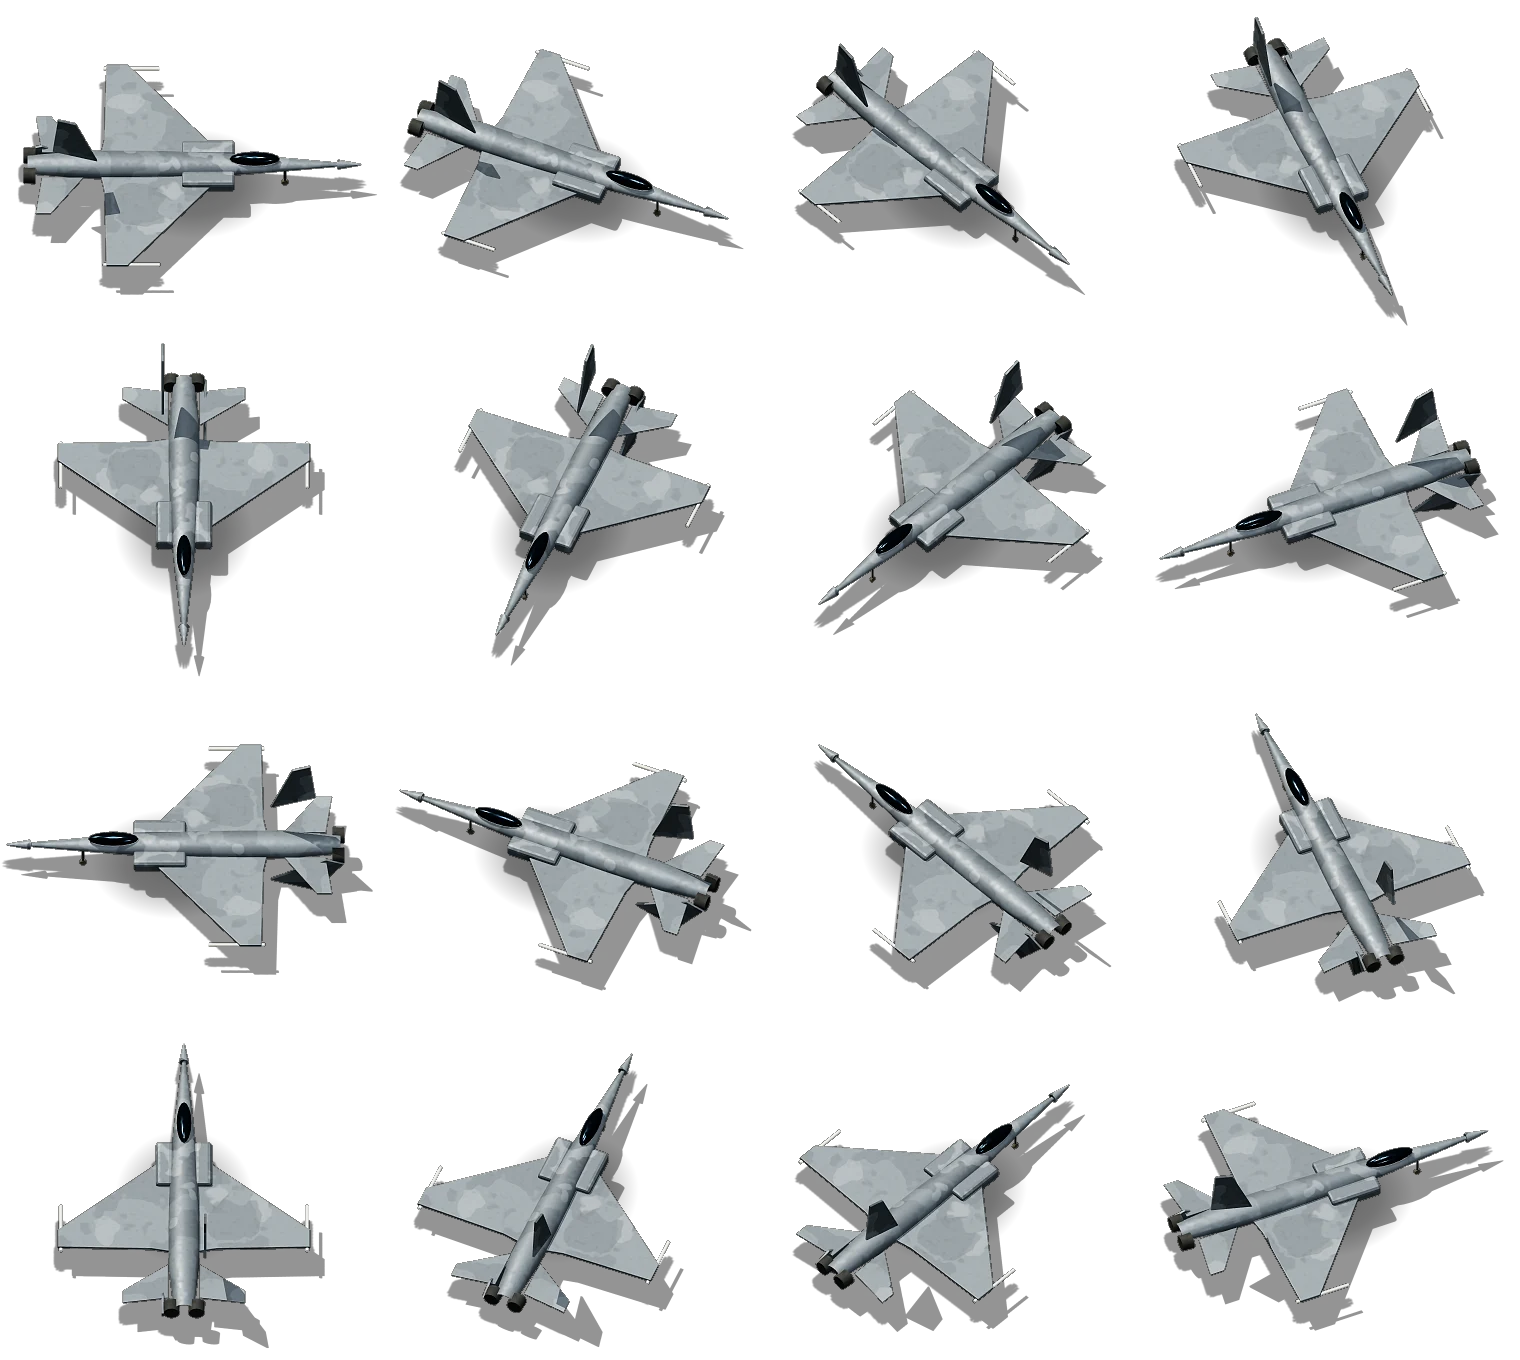
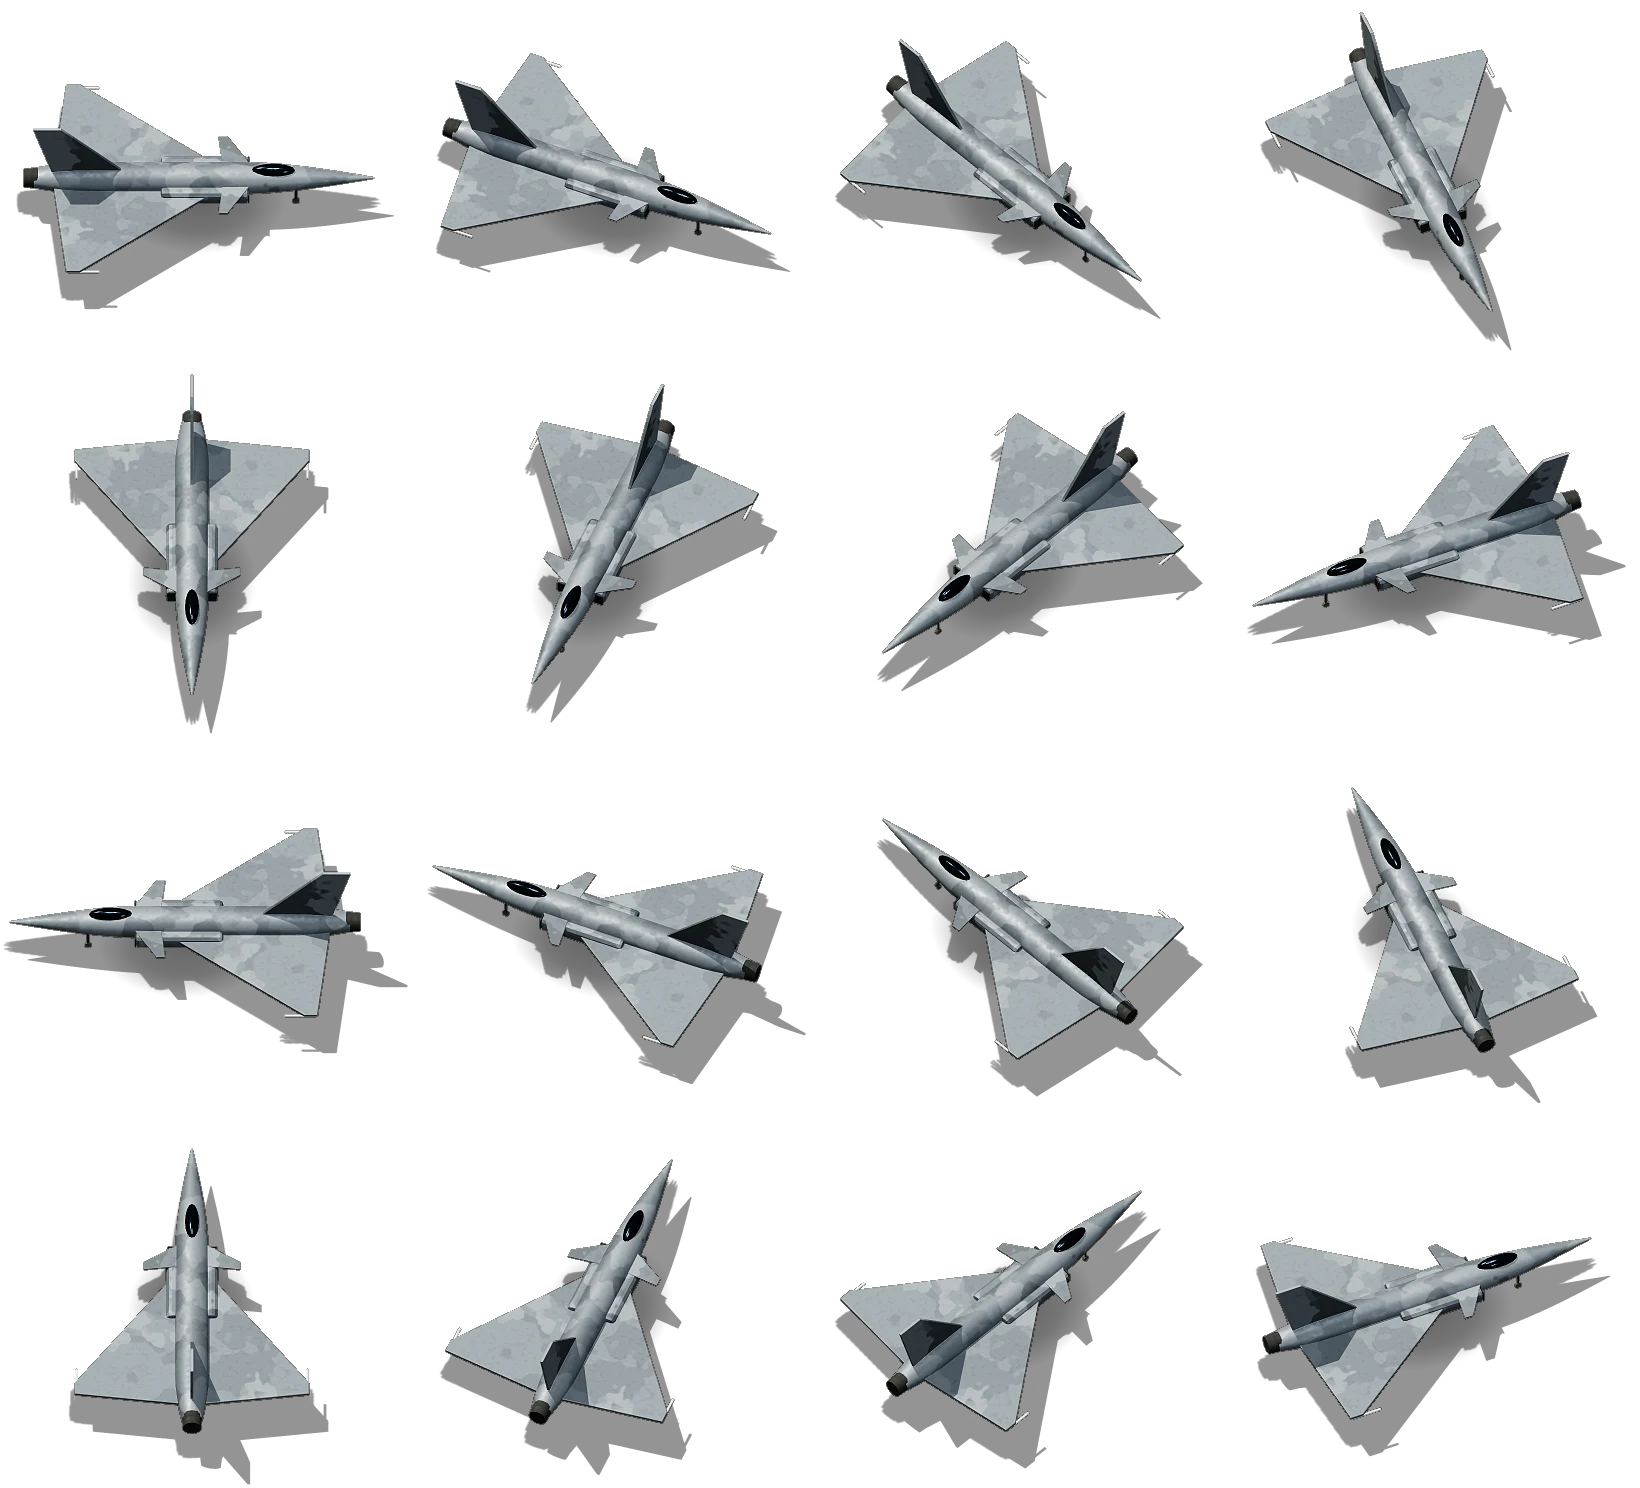
Aircraft 3D map models baked: m-jet, m-int (new shapes), m-asf, m-bomb, m-stealth, m-mpa, m-awacs, m-sdrone, m-swarm and their MAPMETA
Claude-Session: https://claude.ai/code/session_01KVGBc2Umi6eiR6tSvLXXtJ

diff --git a/units3d.js b/units3d.js
@@ -15,7 +15,7 @@
   const cache = {};
   let buildFn = null, mapFn = null;
   // the baked map atlases (assets/units/m-<type>.webp): their crop, ground origin and per-direction model boxes, written by tools/bake-assets.js map
-  const MAPMETA = {"hmv":{"w":334,"h":344,"ox":154,"oy":216.05,"ppm":52.2052,"air":false,"sea":false,"bb":[[15,71,295,261],[12,45,298,281],[23,28,287,293],[53,26,257,299],[91,10,217,295],[52,9,255,299],[21,8,285,293],[10,25,296,281],[13,50,293,261],[10,80,295,281],[21,80,285,294],[52,72,256,302],[91,80,217,295],[52,72,256,302],[23,80,287,294],[13,100,299,281]]},"truck":{"w":400,"h":358,"ox":181,"oy":202.54,"ppm":44.8,"air":false,"sea":false,"bb":[[28,74,342,244],[20,48,349,273],[36,21,331,292],[74,10,292,299],[117,16,245,291],[70,10,288,299],[31,21,326,292],[13,48,342,273],[20,74,334,244],[13,41,342,270],[31,14,326,289],[70,3,289,296],[117,8,245,291],[74,3,292,296],[36,14,331,289],[20,41,349,270]]},"tank":{"w":456,"h":368,"ox":218,"oy":196.39,"ppm":29.9518,"air":false,"sea":false,"bb":[[101,89,423,237],[91,74,409,261],[99,76,366,276],[124,71,315,296],[161,78,275,308],[121,71,312,296],[70,76,337,276],[27,74,345,261],[13,82,335,237],[27,94,345,261],[70,46,337,277],[121,14,312,280],[161,2,275,271],[124,14,315,280],[99,46,366,277],[91,94,409,261]]},"ifv":{"w":386,"h":332,"ox":178,"oy":182.73,"ppm":40.2723,"air":false,"sea":false,"bb":[[18,69,341,228],[14,39,344,256],[28,13,328,273],[64,2,292,278],[111,9,245,268],[65,2,292,278],[28,13,328,273],[12,29,343,256],[15,39,338,228],[12,42,342,251],[29,21,328,269],[65,15,292,284],[112,7,244,281],[64,15,291,284],[28,21,327,269],[14,42,344,251]]},"art":{"w":446,"h":430,"ox":192,"oy":250.73,"ppm":30.4988,"air":false,"sea":false,"bb":[[63,104,357,281],[60,150,353,301],[77,135,325,314],[111,126,277,327],[150,128,237,333],[114,130,273,328],[82,138,307,314],[43,158,324,301],[27,129,321,281],[31,83,324,304],[59,43,307,329],[107,15,273,341],[147,2,234,339],[111,5,270,341],[77,25,302,329],[60,60,341,305]]},"mlrs":{"w":390,"h":346,"ox":180,"oy":196.96,"ppm":43.914,"air":false,"sea":false,"bb":[[30,63,339,238],[25,46,347,265],[40,20,330,284],[75,8,291,289],[123,14,237,284],[70,8,285,290],[30,20,320,284],[13,46,335,265],[21,59,329,238],[13,21,334,264],[30,9,320,281],[70,3,286,287],[123,10,237,283],[75,3,290,287],[40,13,330,281],[25,38,347,264]]},"sam":{"w":428,"h":368,"ox":200,"oy":204.4,"ppm":39.7318,"air":false,"sea":false,"bb":[[37,73,384,244],[35,86,388,278],[58,63,364,302],[101,52,316,315],[146,55,254,315],[84,52,299,315],[36,63,342,302],[12,86,365,278],[16,73,363,244],[12,51,365,272],[36,19,342,292],[84,4,299,304],[146,7,254,303],[102,3,316,304],[58,19,364,292],[35,51,388,272]]},"frig":{"w":418,"h":330,"ox":209,"oy":189.32,"ppm":54.4,"air":false,"sea":true,"bb":[[5,68,413,198],[11,74,397,234],[46,32,353,282],[106,6,290,315],[180,2,238,326],[128,6,312,315],[65,32,372,282],[21,74,407,234],[5,68,413,198],[20,62,407,252],[65,46,372,296],[128,14,312,322],[180,3,238,326],[106,14,290,322],[46,46,353,296],[11,62,397,252]]},"sub":{"w":448,"h":348,"ox":225,"oy":194.04,"ppm":51.2,"air":false,"sea":true,"bb":[[4,129,416,203],[21,102,401,238],[68,50,361,282],[140,15,300,312],[192,3,258,322],[150,15,310,312],[89,50,382,282],[49,102,429,238],[34,129,446,203],[49,107,429,245],[89,81,382,297],[150,54,310,332],[192,43,258,344],[140,54,300,332],[68,81,361,297],[21,105,401,245]]},"crui":{"w":502,"h":398,"ox":251,"oy":229.3,"ppm":54.4,"air":false,"sea":true,"bb":[[4,102,493,241],[16,102,475,285],[59,51,422,342],[131,17,345,380],[218,3,284,393],[157,17,371,380],[80,51,443,342],[27,102,486,285],[9,102,498,241],[27,96,486,305],[80,66,443,357],[157,28,371,389],[218,15,284,394],[131,28,345,389],[59,66,422,357],[16,96,475,305]]},"carr":{"w":544,"h":426,"ox":272,"oy":237.66,"ppm":48,"air":false,"sea":true,"bb":[[6,83,538,282],[11,69,518,304],[50,23,470,364],[120,3,416,407],[166,11,361,421],[140,12,452,407],[79,38,515,364],[26,89,541,310],[6,123,538,270],[26,103,533,336],[74,59,494,385],[128,21,424,417],[183,6,378,421],[92,21,404,417],[29,56,465,385],[3,95,518,328]]},"jet":{"w":392,"h":348,"ox":190,"oy":188.58,"ppm":20.7728,"air":true,"sea":false,"bb":[[25,79,373,260],[26,66,358,238],[38,45,319,271],[60,17,275,303],[77,3,303,314],[105,4,320,303],[61,20,342,271],[22,50,354,238],[7,79,355,260],[22,101,354,274],[61,66,342,290],[105,34,320,303],[77,24,303,306],[60,34,275,300],[38,66,319,290],[26,101,358,274]]},"int":{"w":380,"h":340,"ox":184,"oy":184.23,"ppm":20.1949,"air":true,"sea":false,"bb":[[23,65,361,267],[24,49,348,251],[37,44,310,265],[38,17,290,295],[58,3,310,306],[78,5,330,295],[59,20,331,264],[20,49,344,251],[7,65,345,267],[20,82,344,283],[59,65,331,283],[78,34,330,295],[58,24,310,298],[38,34,290,293],[37,65,309,283],[24,82,348,283]]},"heli":{"w":502,"h":438,"ox":238,"oy":230.76,"ppm":24.3715,"air":true,"sea":false,"bb":[[13,110,360,256],[32,89,352,275],[77,54,360,281],[121,16,354,299],[147,3,329,305],[122,16,355,299],[116,54,401,281],[124,89,448,275],[116,110,463,256],[124,91,444,287],[116,85,399,332],[122,92,355,362],[147,110,329,374],[121,92,354,362],[75,85,360,332],[28,91,352,287]]},"drone":{"w":358,"h":300,"ox":174,"oy":153.63,"ppm":19.2,"air":true,"sea":false,"bb":[[64,3,276,271],[66,13,268,263],[53,41,299,237],[18,43,331,215],[6,39,342,221],[17,41,330,215],[49,41,295,237],[80,13,282,263],[72,3,284,271],[80,12,282,262],[49,37,295,234],[17,65,330,243],[6,59,342,248],[18,65,331,242],[53,37,299,234],[66,12,268,262]]},"sol":{"w":276,"h":288,"ox":124,"oy":179.74,"ppm":82.3179,"air":false,"sea":false,"bb":[[67,22,230,241],[61,19,234,238],[42,23,221,228],[33,34,221,234],[35,34,221,238],[45,17,216,234],[43,6,213,223],[38,3,201,227],[18,9,181,238],[14,21,187,242],[27,31,206,241],[27,27,215,233],[27,21,213,217],[32,22,203,213],[35,31,205,228],[47,30,210,238]]},"sat":{"w":302,"h":316,"ox":128,"oy":193.74,"ppm":85.7668,"air":false,"sea":false,"bb":[[37,38,234,238],[33,37,221,247],[42,40,223,253],[59,20,213,252],[58,7,209,242],[52,4,213,226],[37,9,211,238],[22,24,208,246],[22,45,219,248],[35,38,223,246],[33,31,214,238],[43,23,197,249],[47,22,198,255],[43,32,204,253],[45,32,219,245],[48,38,234,234]]},"ssf":{"w":306,"h":288,"ox":134,"oy":166.13,"ppm":83.0024,"air":false,"sea":false,"bb":[[69,7,249,225],[73,7,246,223],[54,14,227,213],[45,26,239,218],[48,43,237,221],[57,34,223,216],[51,20,221,207],[34,10,216,214],[20,7,199,224],[22,7,195,226],[41,15,214,228],[29,11,223,225],[31,2,220,212],[45,4,211,199],[47,18,217,213],[52,11,234,223]]}};
+  const MAPMETA = {"sol":{"w":276,"h":288,"ox":124,"oy":179.74,"ppm":82.3179,"air":false,"sea":false,"bb":[[67,22,230,241],[61,19,234,238],[42,23,221,228],[33,34,221,234],[35,34,221,238],[45,17,216,234],[43,6,213,223],[38,3,201,227],[18,9,181,238],[14,21,187,242],[27,31,206,241],[27,27,215,233],[27,21,213,217],[32,22,203,213],[35,31,205,228],[47,30,210,238]]},"sat":{"w":302,"h":316,"ox":128,"oy":193.74,"ppm":85.7668,"air":false,"sea":false,"bb":[[37,38,234,238],[33,37,221,247],[42,40,223,253],[59,20,213,252],[58,7,209,242],[52,4,213,226],[37,9,211,238],[22,24,208,246],[22,45,219,248],[35,38,223,246],[33,31,214,238],[43,23,197,249],[47,22,198,255],[43,32,204,253],[45,32,219,245],[48,38,234,234]]},"ssf":{"w":306,"h":288,"ox":134,"oy":166.13,"ppm":83.0024,"air":false,"sea":false,"bb":[[69,7,249,225],[73,7,246,223],[54,14,227,213],[45,26,239,218],[48,43,237,221],[57,34,223,216],[51,20,221,207],[34,10,216,214],[20,7,199,224],[22,7,195,226],[41,15,214,228],[29,11,223,225],[31,2,220,212],[45,4,211,199],[47,18,217,213],[52,11,234,223]]},"hmv":{"w":334,"h":344,"ox":154,"oy":216.05,"ppm":52.2052,"air":false,"sea":false,"bb":[[15,71,295,261],[12,45,298,281],[23,28,287,293],[53,26,257,299],[91,10,217,295],[52,9,255,299],[21,8,285,293],[10,25,296,281],[13,50,293,261],[10,80,295,281],[21,80,285,294],[52,72,256,302],[91,80,217,295],[52,72,256,302],[23,80,287,294],[13,100,299,281]]},"truck":{"w":400,"h":358,"ox":181,"oy":202.54,"ppm":44.8,"air":false,"sea":false,"bb":[[28,74,342,244],[20,48,349,273],[36,21,331,292],[74,10,292,299],[117,16,245,291],[70,10,288,299],[31,21,326,292],[13,48,342,273],[20,74,334,244],[13,41,342,270],[31,14,326,289],[70,3,289,296],[117,8,245,291],[74,3,292,296],[36,14,331,289],[20,41,349,270]]},"tank":{"w":456,"h":368,"ox":218,"oy":196.39,"ppm":29.9518,"air":false,"sea":false,"bb":[[101,89,423,237],[91,74,409,261],[99,76,366,276],[124,71,315,296],[161,78,275,308],[121,71,312,296],[70,76,337,276],[27,74,345,261],[13,82,335,237],[27,94,345,261],[70,46,337,277],[121,14,312,280],[161,2,275,271],[124,14,315,280],[99,46,366,277],[91,94,409,261]]},"ifv":{"w":386,"h":332,"ox":178,"oy":182.73,"ppm":40.2723,"air":false,"sea":false,"bb":[[18,69,341,228],[14,39,344,256],[28,13,328,273],[64,2,292,278],[111,9,245,268],[65,2,292,278],[28,13,328,273],[12,29,343,256],[15,39,338,228],[12,42,342,251],[29,21,328,269],[65,15,292,284],[112,7,244,281],[64,15,291,284],[28,21,327,269],[14,42,344,251]]},"art":{"w":446,"h":430,"ox":192,"oy":250.73,"ppm":30.4988,"air":false,"sea":false,"bb":[[63,104,357,281],[60,150,353,301],[77,135,325,314],[111,126,277,327],[150,128,237,333],[114,130,273,328],[82,138,307,314],[43,158,324,301],[27,129,321,281],[31,83,324,304],[59,43,307,329],[107,15,273,341],[147,2,234,339],[111,5,270,341],[77,25,302,329],[60,60,341,305]]},"mlrs":{"w":390,"h":346,"ox":180,"oy":196.96,"ppm":43.914,"air":false,"sea":false,"bb":[[30,63,339,238],[25,46,347,265],[40,20,330,284],[75,8,291,289],[123,14,237,284],[70,8,285,290],[30,20,320,284],[13,46,335,265],[21,59,329,238],[13,21,334,264],[30,9,320,281],[70,3,286,287],[123,10,237,283],[75,3,290,287],[40,13,330,281],[25,38,347,264]]},"sam":{"w":428,"h":368,"ox":200,"oy":204.4,"ppm":39.7318,"air":false,"sea":false,"bb":[[37,73,384,244],[35,86,388,278],[58,63,364,302],[101,52,316,315],[146,55,254,315],[84,52,299,315],[36,63,342,302],[12,86,365,278],[16,73,363,244],[12,51,365,272],[36,19,342,292],[84,4,299,304],[146,7,254,303],[102,3,316,304],[58,19,364,292],[35,51,388,272]]},"frig":{"w":418,"h":330,"ox":209,"oy":189.32,"ppm":54.4,"air":false,"sea":true,"bb":[[5,68,413,198],[11,74,397,234],[46,32,353,282],[106,6,290,315],[180,2,238,326],[128,6,312,315],[65,32,372,282],[21,74,407,234],[5,68,413,198],[20,62,407,252],[65,46,372,296],[128,14,312,322],[180,3,238,326],[106,14,290,322],[46,46,353,296],[11,62,397,252]]},"sub":{"w":448,"h":348,"ox":225,"oy":194.04,"ppm":51.2,"air":false,"sea":true,"bb":[[4,129,416,203],[21,102,401,238],[68,50,361,282],[140,15,300,312],[192,3,258,322],[150,15,310,312],[89,50,382,282],[49,102,429,238],[34,129,446,203],[49,107,429,245],[89,81,382,297],[150,54,310,332],[192,43,258,344],[140,54,300,332],[68,81,361,297],[21,105,401,245]]},"crui":{"w":502,"h":398,"ox":251,"oy":229.3,"ppm":54.4,"air":false,"sea":true,"bb":[[4,102,493,241],[16,102,475,285],[59,51,422,342],[131,17,345,380],[218,3,284,393],[157,17,371,380],[80,51,443,342],[27,102,486,285],[9,102,498,241],[27,96,486,305],[80,66,443,357],[157,28,371,389],[218,15,284,394],[131,28,345,389],[59,66,422,357],[16,96,475,305]]},"carr":{"w":544,"h":426,"ox":272,"oy":237.66,"ppm":48,"air":false,"sea":true,"bb":[[6,83,538,282],[11,69,518,304],[50,23,470,364],[120,3,416,407],[166,11,361,421],[140,12,452,407],[79,38,515,364],[26,89,541,310],[6,123,538,270],[26,103,533,336],[74,59,494,385],[128,21,424,417],[183,6,378,421],[92,21,404,417],[29,56,465,385],[3,95,518,328]]},"jet":{"w":430,"h":384,"ox":203,"oy":207.61,"ppm":20.8,"air":true,"sea":false,"bb":[[32,96,385,271],[33,87,381,258],[48,43,341,293],[83,13,295,327],[94,3,312,333],[110,13,323,325],[65,43,358,293],[25,87,373,258],[22,96,374,271],[25,110,372,280],[65,73,358,307],[111,41,323,318],[94,42,312,323],[83,41,295,318],[48,73,341,307],[34,110,381,280]]},"int":{"w":410,"h":372,"ox":192,"oy":202.61,"ppm":20.8,"air":true,"sea":false,"bb":[[24,85,374,273],[31,54,361,238],[20,40,321,281],[36,13,264,313],[75,3,309,323],[120,13,348,312],[63,40,364,281],[23,54,353,238],[10,85,360,273],[23,122,353,304],[63,75,364,316],[120,44,348,308],[75,33,309,318],[36,44,264,308],[20,75,321,316],[31,122,361,304]]},"asf":{"w":416,"h":346,"ox":203,"oy":176.67,"ppm":19.2,"air":true,"sea":false,"bb":[[54,57,397,263],[40,42,383,251],[50,37,341,268],[55,18,317,302],[73,10,333,313],[89,18,351,302],[65,37,356,268],[23,42,366,250],[9,57,352,263],[23,69,366,278],[65,48,356,280],[89,14,351,289],[73,4,333,282],[55,14,317,289],[50,48,341,280],[40,69,383,278]]},"bomb":{"w":440,"h":392,"ox":204,"oy":208.82,"ppm":7.9521,"air":true,"sea":false,"bb":[[16,51,386,319],[13,31,373,285],[15,35,333,296],[11,13,328,328],[36,2,372,338],[80,13,397,328],[75,35,393,296],[35,31,395,285],[21,51,392,319],[35,86,395,339],[75,90,393,336],[80,59,397,343],[36,48,372,338],[11,59,328,343],[15,90,333,336],[13,86,373,339]]},"mpa":{"w":420,"h":356,"ox":204,"oy":184.18,"ppm":10.1972,"air":true,"sea":false,"bb":[[7,46,377,298],[21,53,364,294],[57,40,327,272],[56,13,356,296],[46,4,362,305],[52,13,352,296],[81,40,351,273],[44,53,387,294],[31,46,401,298],[43,50,387,291],[80,67,351,282],[52,39,352,311],[46,29,362,323],[56,39,356,311],[57,67,328,282],[21,50,365,291]]},"awacs":{"w":428,"h":384,"ox":198,"oy":204.78,"ppm":7.8846,"air":true,"sea":false,"bb":[[15,53,375,332],[8,42,362,304],[24,45,324,290],[10,14,337,320],[24,3,372,330],[59,14,386,320],[72,45,372,290],[34,42,388,304],[21,53,381,332],[34,81,388,343],[72,87,372,331],[59,58,386,338],[24,47,372,329],[10,58,337,338],[24,87,324,331],[8,81,362,343]]},"heli":{"w":502,"h":438,"ox":238,"oy":230.76,"ppm":24.3715,"air":true,"sea":false,"bb":[[13,110,360,256],[32,89,352,275],[77,54,360,281],[121,16,354,299],[147,3,329,305],[122,16,355,299],[116,54,401,281],[124,89,448,275],[116,110,463,256],[124,91,444,287],[116,85,399,332],[122,92,355,362],[147,110,329,374],[121,92,354,362],[75,85,360,332],[28,91,352,287]]},"drone":{"w":358,"h":300,"ox":174,"oy":153.63,"ppm":19.2,"air":true,"sea":false,"bb":[[64,3,276,271],[66,13,268,263],[53,41,299,237],[18,43,331,215],[6,39,342,221],[17,41,330,215],[49,41,295,237],[80,13,282,263],[72,3,284,271],[80,12,282,262],[49,37,295,234],[17,65,330,243],[6,59,342,248],[18,65,331,242],[53,37,299,234],[66,12,268,262]]},"sdrone":{"w":350,"h":302,"ox":167,"oy":157.62,"ppm":20.8,"air":true,"sea":false,"bb":[[62,18,271,259],[45,4,263,235],[15,9,241,201],[6,33,284,219],[20,59,314,224],[50,33,328,219],[93,9,319,201],[71,4,288,235],[63,18,272,259],[70,44,289,270],[93,82,319,262],[50,64,328,236],[20,58,314,225],[6,64,284,236],[15,82,241,262],[45,45,264,270]]},"stealth":{"w":556,"h":456,"ox":274,"oy":232.2,"ppm":10.2311,"air":true,"sea":false,"bb":[[199,4,384,432],[120,7,376,403],[48,37,434,347],[11,95,506,300],[7,157,541,306],[42,95,537,300],[114,37,500,347],[172,7,428,403],[164,4,349,432],[173,33,428,428],[114,89,500,398],[42,136,537,341],[7,130,541,278],[11,136,506,341],[48,89,435,398],[120,33,375,428]]},"swarm":{"w":308,"h":254,"ox":151,"oy":129.56,"ppm":24,"air":true,"sea":false,"bb":[[107,4,221,235],[64,4,222,223],[27,20,255,202],[6,50,281,176],[6,84,296,175],[21,50,296,176],[47,20,275,202],[80,4,238,223],[81,4,195,235],[80,15,238,235],[47,36,275,218],[21,62,296,188],[6,63,296,154],[6,62,281,188],[27,36,255,218],[64,15,222,235]]}};
   if (T) (function(){
   let renderer;
   try { renderer = new T.WebGLRenderer({antialias:true, alpha:true, preserveDrawingBuffer:true}); } catch (e){ return; }
@@ -773,9 +773,9 @@ float fbm(vec3 p){ return 0.5*n3(p) + 0.28*n3(p*2.07 + 7.1) + 0.14*n3(p*4.13 + 3
     const g = new T.Group(), H = 1.5, A = P.stl, AD = P.stlD, y0 = H + 0.55;
     g.add(plan(both([[0, 10.6], [26, -4.0], [25.4, -5.6], [19.5, -2.6], [14.5, -6.2], [9.5, -2.4], [4.4, -6.4], [1.6, -5.2], [0, -7.2]]), 0.55, A, y0, 0.12));
     g.add(plan(both([[0, 9.4], [9.0, 1.2], [8.0, -2.0], [4.0, -4.4], [0, -5.0]]), 0.5, A, y0 + 0.3, 0.2));   // (the thicker middle)
-    g.add(sph(1, A, 0, y0 + 0.75, 2.6, 3.0, 0.85, 6.6)); g.add(rbox(1.7, 0.16, 0.8, 0.07, P.glass, 0, y0 + 1.5, 5.4)); g.add(rbox(1.4, 0.12, 0.5, 0.05, P.glass, 0, y0 + 1.56, 4.6));
-    for (const sx of [-1, 1]){ g.add(sph(1, A, sx*3.4, y0 + 0.75, -0.8, 1.7, 0.5, 4.6)); g.add(rbox(1.7, 0.22, 0.3, 0.07, P.dark, sx*3.4, y0 + 1.12, 2.9));
-      g.add(rbox(2.2, 0.08, 1.2, 0.04, AD, sx*3.4, y0 + 0.92, -4.9)); }
+    g.add(sph(1, A, 0, y0 + 0.8, 2.2, 3.4, 0.62, 7.4)); g.add(rbox(1.7, 0.12, 0.8, 0.05, P.glass, 0, y0 + 1.36, 5.0)); g.add(rbox(1.4, 0.1, 0.5, 0.04, P.glass, 0, y0 + 1.4, 4.2));
+    for (const sx of [-1, 1]){ g.add(sph(1, A, sx*3.6, y0 + 0.8, -1.0, 2.0, 0.4, 4.8)); g.add(rbox(1.8, 0.16, 0.3, 0.06, P.dark, sx*3.6, y0 + 1.06, 2.9));
+      g.add(rbox(2.4, 0.08, 1.2, 0.04, AD, sx*3.6, y0 + 0.9, -5.2)); }
     gear(g, [[0, 4.0], [-6.2, -1.0], [6.2, -1.0]], H, 0.4);
     return {g, ext:24, ppm:8, air:true}; }
   // a propeller seen nose on: a spinner and four blades (axis along z)
@@ -834,7 +834,7 @@ float fbm(vec3 p){ return 0.5*n3(p) + 0.28*n3(p*2.07 + 7.1) + 0.14*n3(p*4.13 + 3
       for (const [dx, dz] of [[0.67, 0.67], [-0.67, 0.67], [0.67, -0.67], [-0.67, -0.67]]){ q.add(cy(0.07, 0.08, 0.16, P.dark, 8, dx, y + 0.2, dz));
         q.add(cy(0.44, 0.44, 0.03, P.blade, 18, dx, y + 0.3, dz)); }
       for (const [dx, dz] of [[0.25, 0.3], [-0.25, 0.3], [0.25, -0.3], [-0.25, -0.3]]) q.add(cy(0.025, 0.025, 0.28, P.dark, 4, dx, 0.14, dz)); };
-    quad(0, 2.7, 0); quad(-2.3, 0.6, 0.12); quad(2.3, 0.6, -0.12); quad(-4.4, -1.6, 0.2); quad(4.4, -1.6, -0.2);
+    quad(0, 1.8, 0); quad(-2.4, 0.5, 0.12); quad(2.4, 0.5, -0.12); quad(-4.8, -0.6, 0.2); quad(4.8, -0.6, -0.2);
     return {g, ext:6.4, ppm:15, air:true}; }
   function mHeli(){
     const g = new T.Group(), H = 0.55, A = P.heli, AD = P.heliD;   // ~17 m attack helicopter on its wheels, in a dark olive disruptive scheme with black blades
